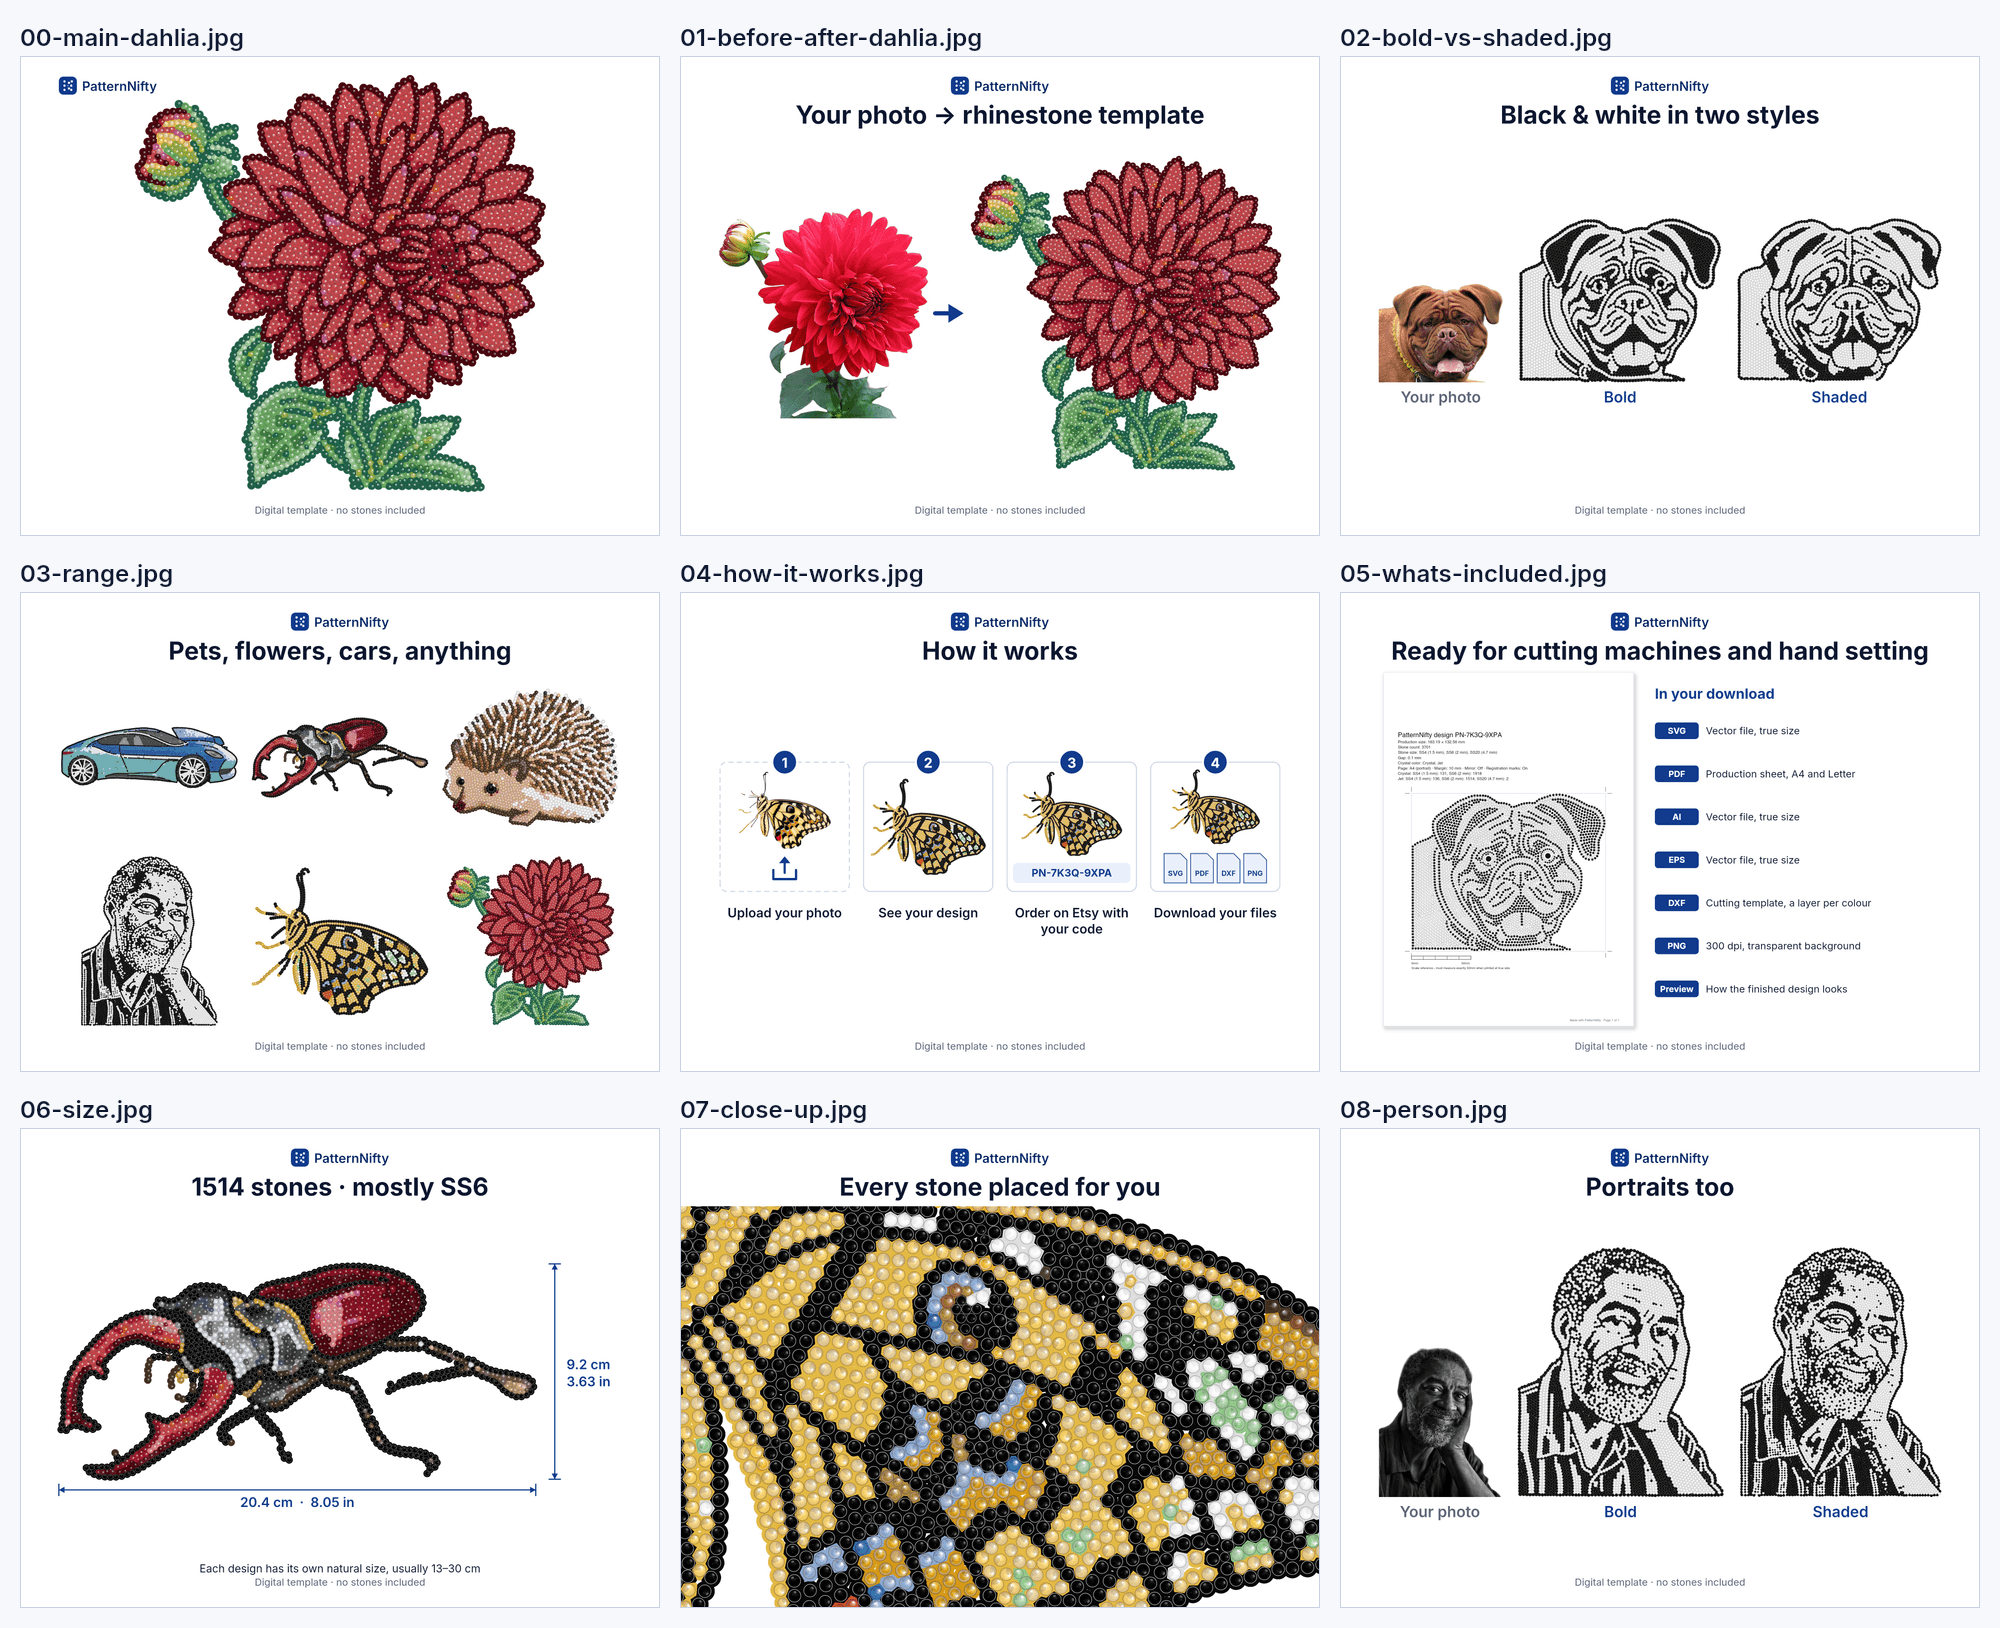
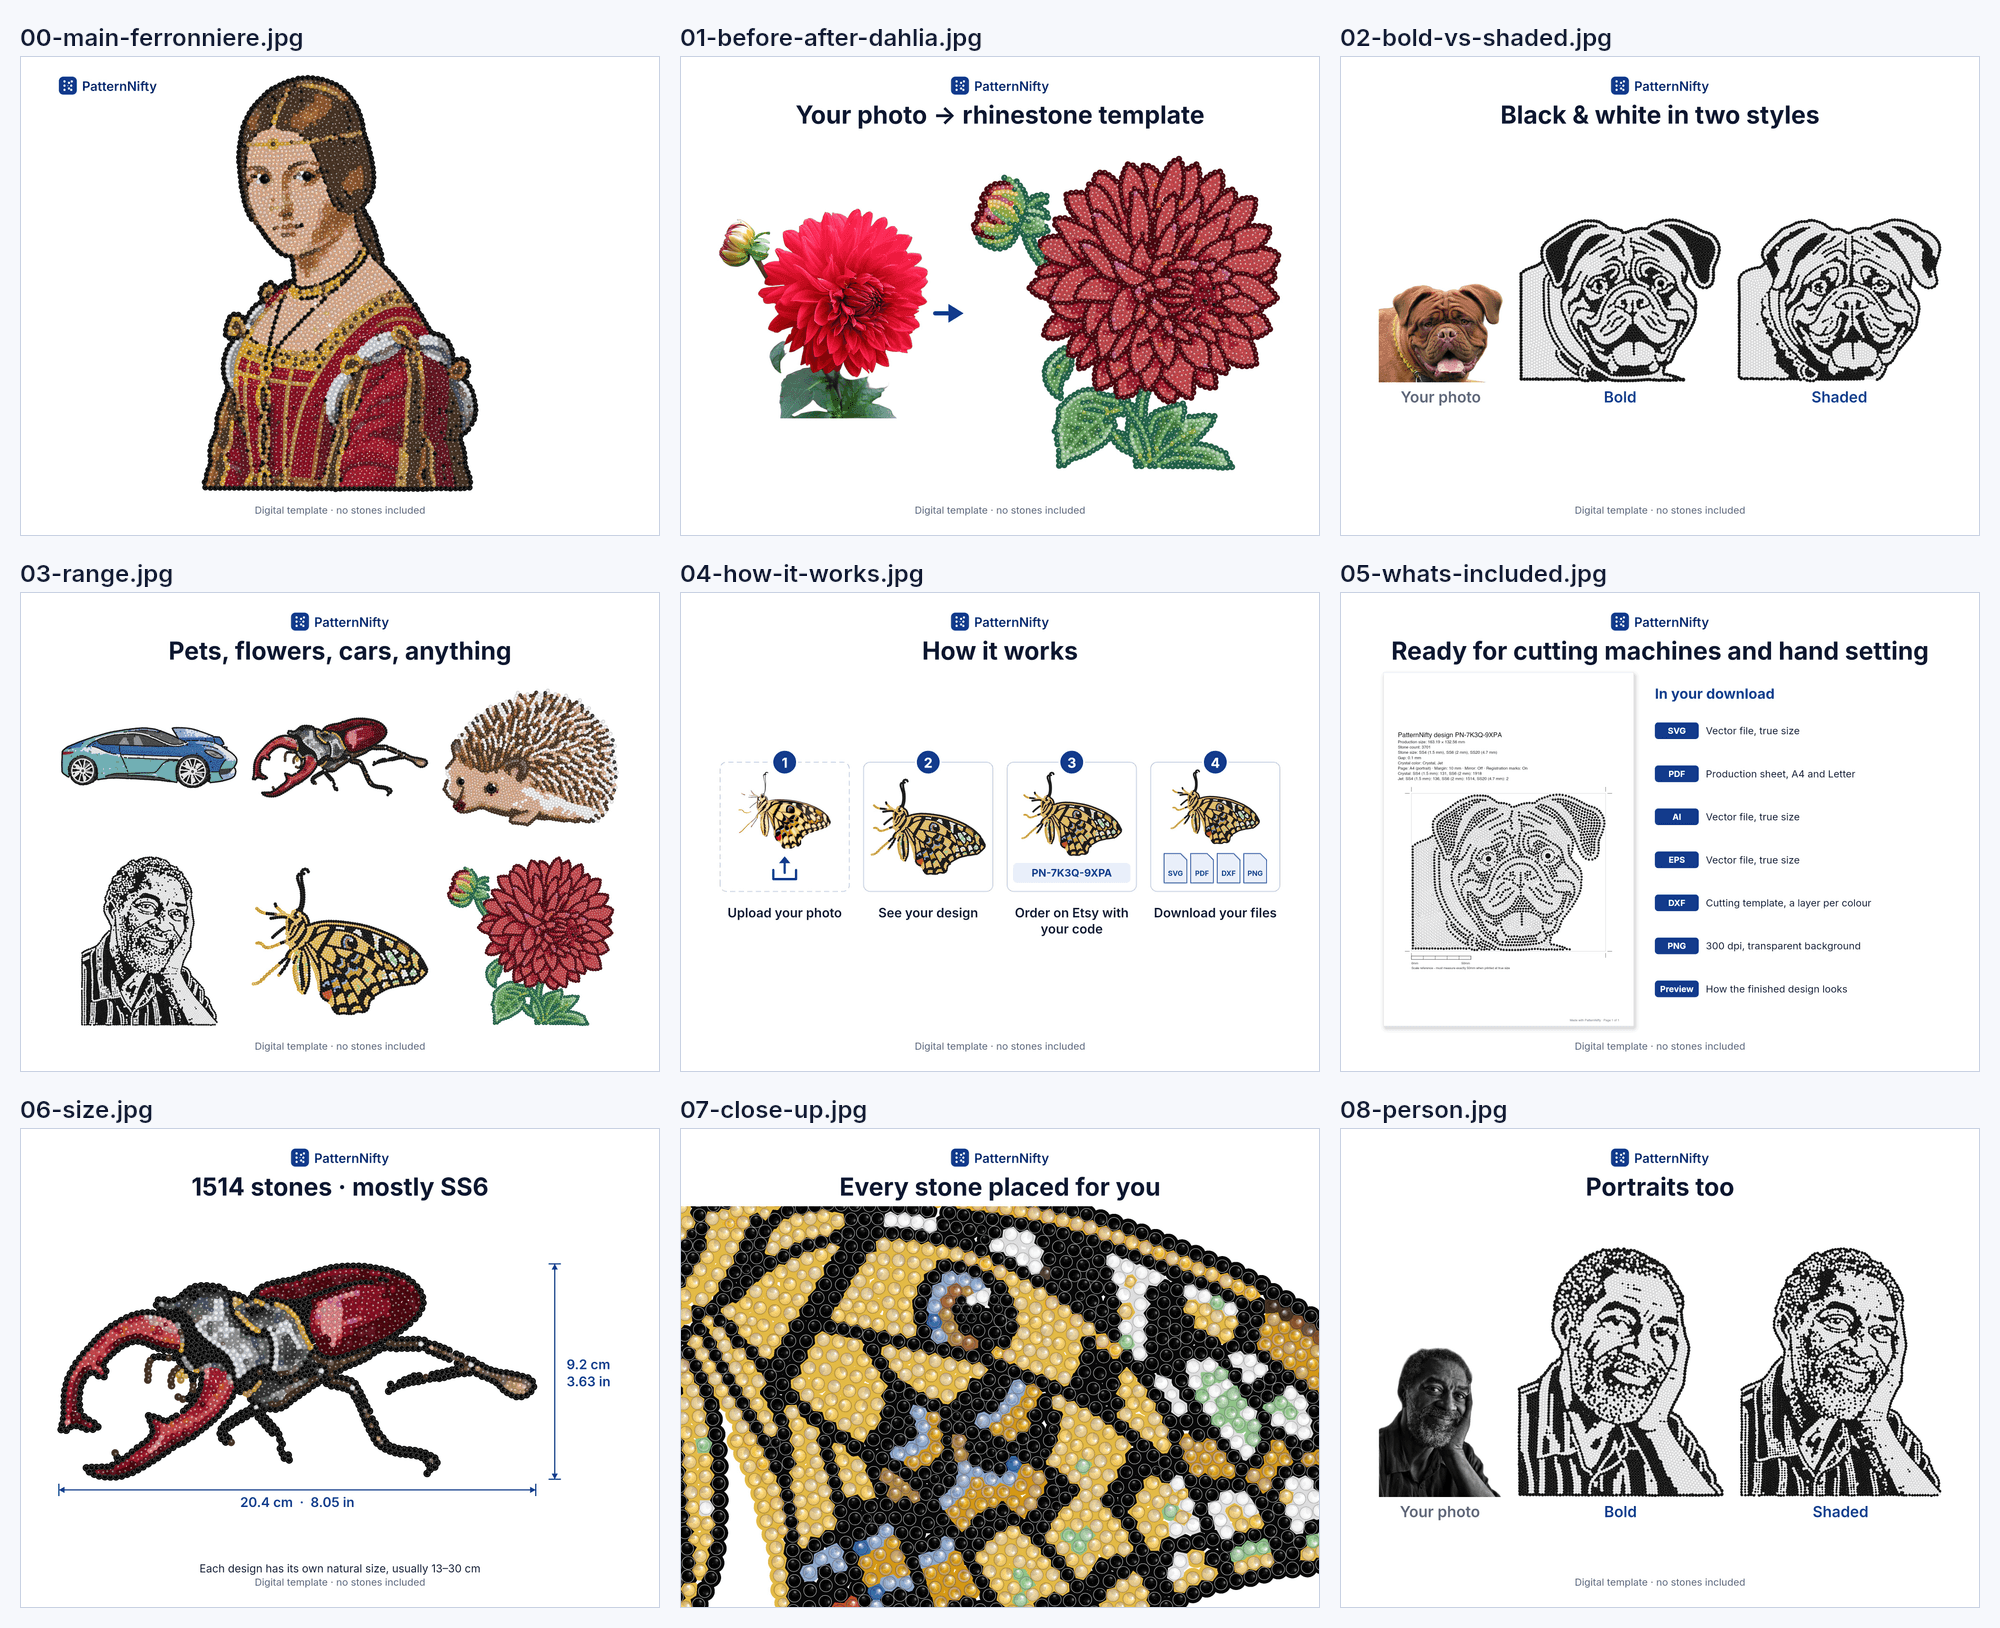
PN-04d: La Belle Ferronnière as the Etsy main photo
00-main-dahlia.jpg is replaced by 00-main-ferronniere.jpg: the tinted
Colour design of Leonardo's La Belle Ferronnière (public domain) alone,
made by make-listing-photos.mjs's hero layout like the dahlia was. The
design is marked "use in listing: yes" and added to the script's allowed
designs; the photos README has the new alt text. Photos 01-08 are
unchanged (the dahlia stays on 01 and 03).

Changed region(s): [[0.062, 0.0, 0.279, 0.3071]]

diff --git a/docs/listing/photos/README.md b/docs/listing/photos/README.md
@@ -4,7 +4,7 @@ Made by `node tools/make-listing-photos.mjs` from the listing designs marked "us
 [../README.md](../README.md) (their full-size files in `data/listing/designs/`). Running it again
 gives the same files. Each photo is 2700 × 2025 px (4:3), sRGB JPG, under 1 MB; everything that
 matters is at least 80 px inside the centre 2531 × 2025 px, the part Etsy's thumbnail (about 5:4)
-shows. The main photo (00) is the dahlia design alone, at least 85 % of the photo's height, with
+shows. The main photo (00) is the La Belle Ferronnière design (Leonardo da Vinci, public domain; PN-04d) alone, at least 85 % of the photo's height, with
 only the small brand row in the top-left corner and the footer line. The close-up (07) is rendered
 sharp at 26.5 px per mm from the butterfly design's stones, with the app's own tinted renderer.
 [overview.png](overview.png) shows them all on one sheet.
@@ -17,7 +17,7 @@ Text is set in Inter (SIL Open Font License, `tools/fonts/`).
 
 | # | File | Alt text |
 | ---: | --- | --- |
-| 1 | [00-main-dahlia.jpg](00-main-dahlia.jpg) | A large colour rhinestone template of a red dahlia with a bud and green leaves on white, every stone shown. Digital template, no stones included. |
+| 1 | [00-main-ferronniere.jpg](00-main-ferronniere.jpg) | A large colour rhinestone template of Leonardo da Vinci's La Belle Ferronnière on white: a woman with dark hair, a jewel on her forehead and a red and gold dress, every stone shown. Digital template, no stones included. |
 | 2 | [01-before-after-dahlia.jpg](01-before-after-dahlia.jpg) | A photo of a red dahlia with a bud and green leaves, an arrow, and the same flower drawn larger as a colour rhinestone template, every stone shown. Title: Your photo to rhinestone template. |
 | 3 | [02-bold-vs-shaded.jpg](02-bold-vs-shaded.jpg) | A small photo of a mastiff's head, then two black and white rhinestone templates of it: Bold, with solid black and clear areas, and Shaded, with black and clear stones mixed. Title: Black & white in two styles. |
 | 4 | [03-range.jpg](03-range.jpg) | Six rhinestone templates: a sports car, a stag beetle, a hedgehog, a black and white Shaded portrait of a smiling man, a butterfly and a red dahlia. Title: Pets, flowers, cars, anything. |

diff --git a/docs/listing/README.md b/docs/listing/README.md
@@ -60,5 +60,5 @@ every time.
 | # | Subject | Mode | Stones | Natural size | Photo source | Licence | Use in listing |
 | ---: | --- | --- | ---: | --- | --- | --- | --- |
 | 8 | [painting-ermine](designs/painting-ermine-colour/) | Colour | 3771 | 137 × 204 mm (5.39 × 8.03 in) | [Wikimedia Commons](https://commons.wikimedia.org/wiki/File:Leonardo_da_Vinci_(1452-1519)_-_Lady_with_an_Ermine_%E2%80%93_Portrait_of_Cecilia_Gallerani_(ca._1473%E2%80%931536)_-_MNK_XII-209_-_National_Museum_Krak%C3%B3w.jpg), National Museum in Kraków | Public domain | not decided |
-| 9 | [painting-ferronniere](designs/painting-ferronniere-colour/) | Colour | 3950 | 143.7 × 217.3 mm (5.66 × 8.56 in) | [Wikimedia Commons](https://commons.wikimedia.org/wiki/File:La_Belle_Ferroni%C3%A8re_-_Google_Arts.jpg), Google Arts & Culture | Public domain | not decided: the dark brownish-red dress comes out bright red with gold |
+| 9 | [painting-ferronniere](designs/painting-ferronniere-colour/) | Colour | 3950 | 143.7 × 217.3 mm (5.66 × 8.56 in) | [Wikimedia Commons](https://commons.wikimedia.org/wiki/File:La_Belle_Ferroni%C3%A8re_-_Google_Arts.jpg), Google Arts & Culture | Public domain | yes, the main photo (the dark brownish-red dress comes out bright red with gold) |
 | 10 | [painting-ginevra](designs/painting-ginevra-colour/) | Colour | 3660 | 134.7 × 178 mm (5.3 × 7.01 in) | [Wikimedia Commons](https://commons.wikimedia.org/wiki/File:Leonardo_da_Vinci_-_Ginevra_de%27_Benci_-_Google_Art_Project.jpg), Google Art Project | Public domain | not decided: white blotches on the face |
